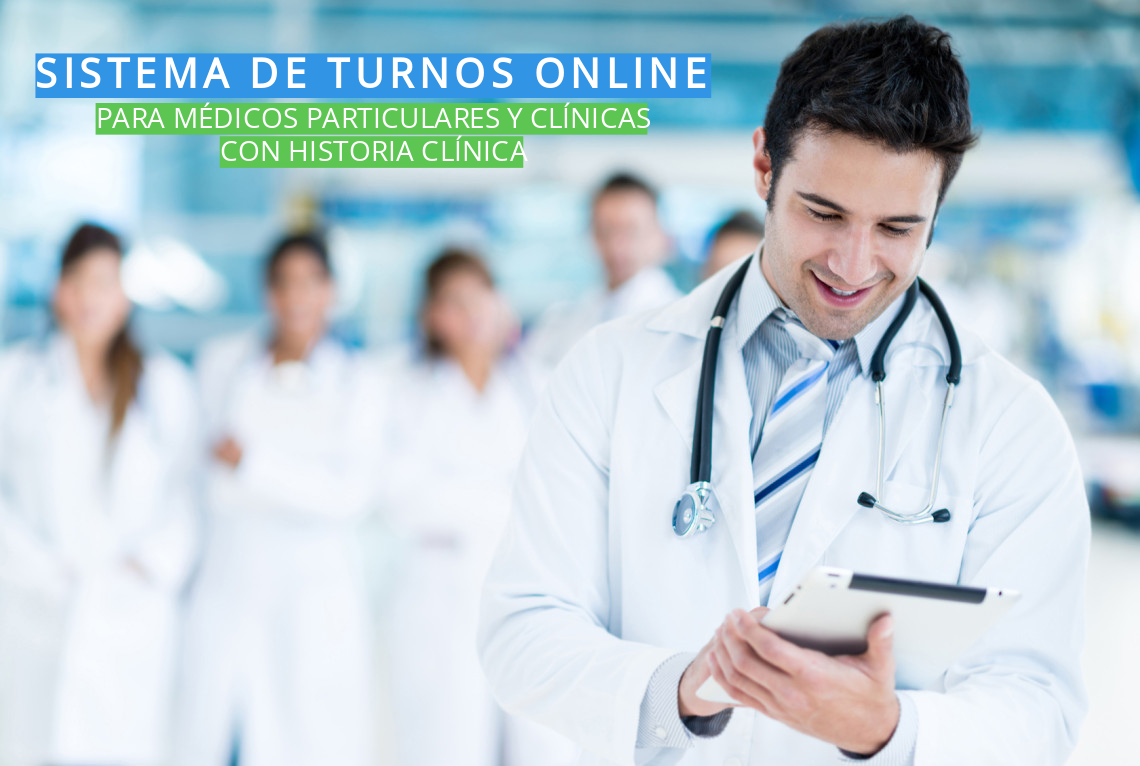
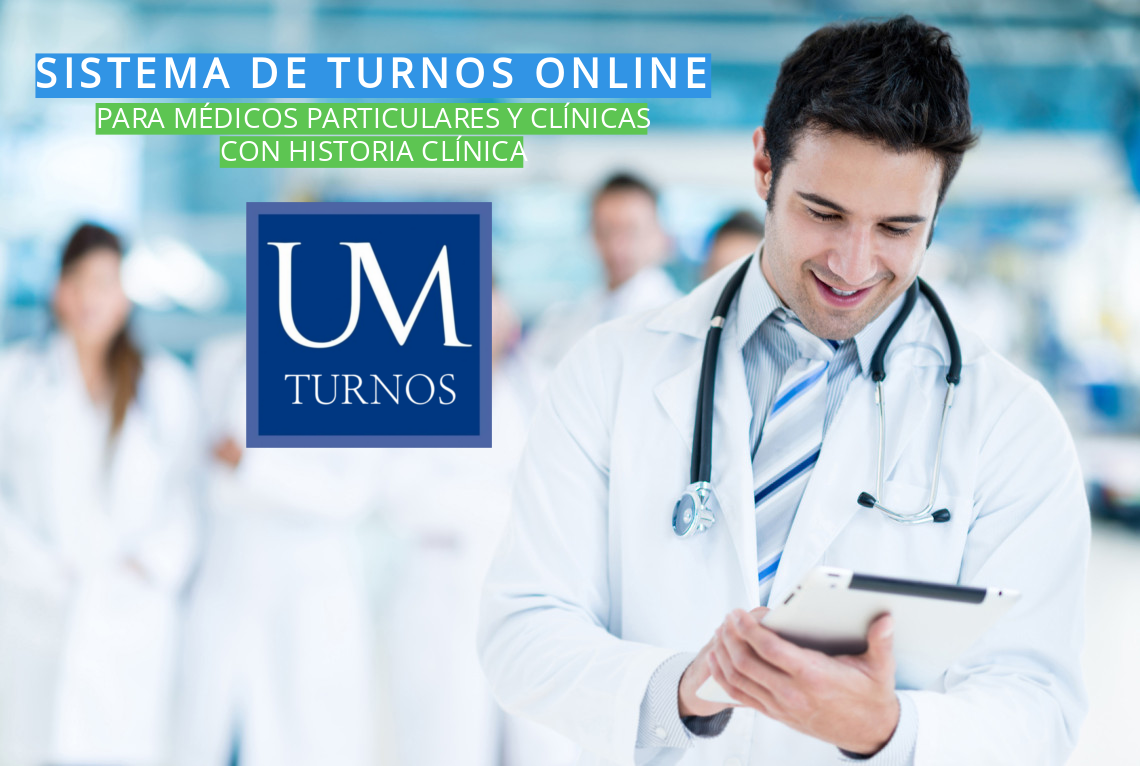
Se arreglo la vista principal

Changed region(s): [[0.2149, 0.2402, 0.4298, 0.6005]]

diff --git a/src/main/webapp/app/home/home.component.html b/src/main/webapp/app/home/home.component.html
@@ -1,6 +1,16 @@
+<div *ngIf="isAuthenticated(); then loggedIn else notLogged"></div>
 
-<div *jhiHasAnyAuthority="['ROLE_DOCTOR', 'ROLE_SECRETARY']" class="my-ng-fullcalendar d-flex justify-content-center">
-    <jhi-um-calendar></jhi-um-calendar>
+<ng-template #loggedIn>
+    <div *jhiHasAnyAuthority="['ROLE_DOCTOR', 'ROLE_SECRETARY']"
+         class="my-ng-fullcalendar d-flex justify-content-center"
+    >
+        <jhi-um-calendar></jhi-um-calendar>
+    </div>
+</ng-template>
 
-    <img src="../../content/images/um_500_500.png" class="um-logo">
-</div>
+
+<ng-template #notLogged>
+    <div class="hipster">
+        <img src="../../content/images/principal.png" class="um-logo">
+    </div>
+</ng-template>

diff --git a/src/main/webapp/app/home/home.css b/src/main/webapp/app/home/home.css
@@ -4,18 +4,15 @@ Main page styles
 
 .hipster {
     display: inline-block;
-    width: 347px;
-    height: 497px;
-    background: url('../../content/images/hipster.png') no-repeat center top;
+    background: url('../../content/images/principal.png') no-repeat center top;
     background-size: contain;
+    width: 100%;
+    height: 100%;
 }
 
 .um-logo {
-    width: 300px;
-    height: 300px;
-    position: absolute;
-    top: 400px;
-    left: 450px;
+    width: 100%;
+    height: 100%;
 }
 
 .objetfit > img {
